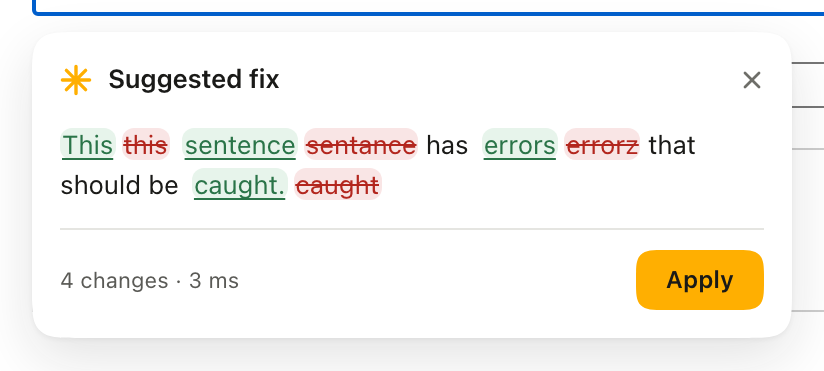
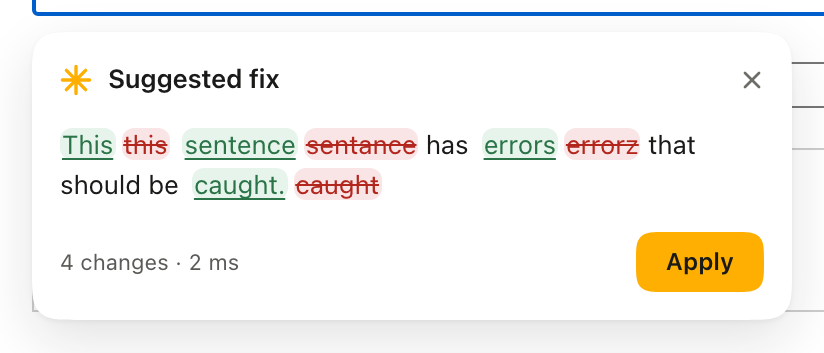
One surface: the card footer loses its rule

diff --git a/content/ui.js b/content/ui.js
@@ -53,7 +53,7 @@
     '.ww-head{display:flex;align-items:center;gap:8px}', '.ww-mark{color:#ffaf01;display:inline-flex}',
     '.ww-title{flex:1;min-width:0;font-weight:600;white-space:nowrap;overflow:hidden;text-overflow:ellipsis}',
     '.ww-x{display:inline-flex;align-items:center;justify-content:center;width:24px;height:24px;border:0;border-radius:999px;corner-shape:squircle;background:none;color:#8d8d89;cursor:pointer}', '.ww-tools{display:flex;align-items:center;gap:2px;margin:-4px -6px -4px 0}', '.ww-speak{color:#8d8d89}',
-    '.ww-body{flex:1;min-height:0;overflow:auto;margin-top:12px}', '.ww-foot{display:flex;gap:8px;align-items:center;margin-top:12px;padding-top:10px;border-top:1px solid #262626}',
+    '.ww-body{flex:1;min-height:0;overflow:auto;margin-top:12px}', '.ww-foot{display:flex;gap:8px;align-items:center;margin-top:14px}',
     '.ww-meta{flex:1;min-width:0;font-size:11px;color:#aeaeaa;white-space:nowrap;overflow:hidden;text-overflow:ellipsis}',
     '.ww-btn{height:30px;padding:0 14px;border-radius:999px;corner-shape:squircle;font:600 12px/1 inherit;cursor:pointer;border:1px solid transparent;background:none;color:#f2f2f0}',
     '.ww-icon-btn{display:inline-flex;align-items:center;justify-content:center;width:30px;height:30px;padding:0;border:0;border-radius:999px;corner-shape:squircle;background:none;color:#aeaeaa;cursor:pointer}', '.ww-icon-btn.ww-copied{color:#5cb87a}',

diff --git a/content/ui.css b/content/ui.css
@@ -343,14 +343,15 @@
 
 /* ── footer ───────────────────────────────────────────────────────────── */
 
+/* No rule above the footer: the card already has one horizontal line's worth
+   of separation from the body, and a hairline through the quietest part of the
+   card was the last piece of furniture left in it. */
 .ww-foot {
   flex: 0 0 auto;
   display: flex;
   align-items: center;
   gap: 8px;
-  margin-top: 12px;
-  padding-top: 10px;
-  border-top: 1px solid var(--ww-border);
+  margin-top: 14px;
 }
 
 .ww-meta {

diff --git a/DESIGN.md b/DESIGN.md
@@ -51,9 +51,11 @@ with `corner-shape: squircle` — the continuous curve starts earlier and meets
 the edge without a tangent break, which is what the eye reads as "iOS" rather
 than "rounded rectangle". It is set through the `--ww-corner` token so an engine
 without `corner-shape` simply ignores the declaration and keeps the circular
-arc; every radius is chosen to read well both ways. Hairline borders stay only
-where they separate two surfaces of the same colour; the card lost its border
-and is defined by its shadow alone.
+arc; every radius is chosen to read well both ways. Inside the card there are no
+rules at all — not around it, not between its body and its footer; separation
+comes from spacing and from the shadow, and the hairlines that remain live in
+the popup and the vocabulary page, where they separate rows rather than parts
+of one object.
 
 ## Type
 
@@ -83,7 +85,9 @@ instructions.
   24px. Head to body is 12px; the body's answer type is 15px/1.45, and the
   source label sits 4px under it at 11px, because it is a caption on the
   answer, not a second paragraph.
-- **Card footer** — one labelled action per state (Apply, Replace, Undo, Add
+- **Card footer** — no rule above it: the 14px gap does the separating, and a
+  hairline through the quietest part of the card was the last piece of
+  furniture in it. One labelled action per state (Apply, Replace, Undo, Add
   key). Secondary verbs are glyph buttons: copy and save-word sit on the same
   30px line as a 30px disc holding a 13px glyph, because the word "Copy" is not
   the thing the action produces and a light pill with dark text in it was the

diff --git a/README.md b/README.md
@@ -206,6 +206,12 @@ mouse/keyboard events: auto-check debounce, request shape, apply/undo on all
 three field types, error persistence, shadow-DOM isolation against hostile CSS,
 per-site pause, word-limit guard, shortcut and selection paths.
 
+## Differences from v2.6.1
+
+- The card's footer lost its hairline. Separation above it is a 14px gap; the
+  card is now one uninterrupted surface from its top edge to its bottom, with
+  the shadow as its only boundary.
+
 ## Differences from v2.6.0
 
 - The card's footer has one labelled action. Copy and Save are now glyph
